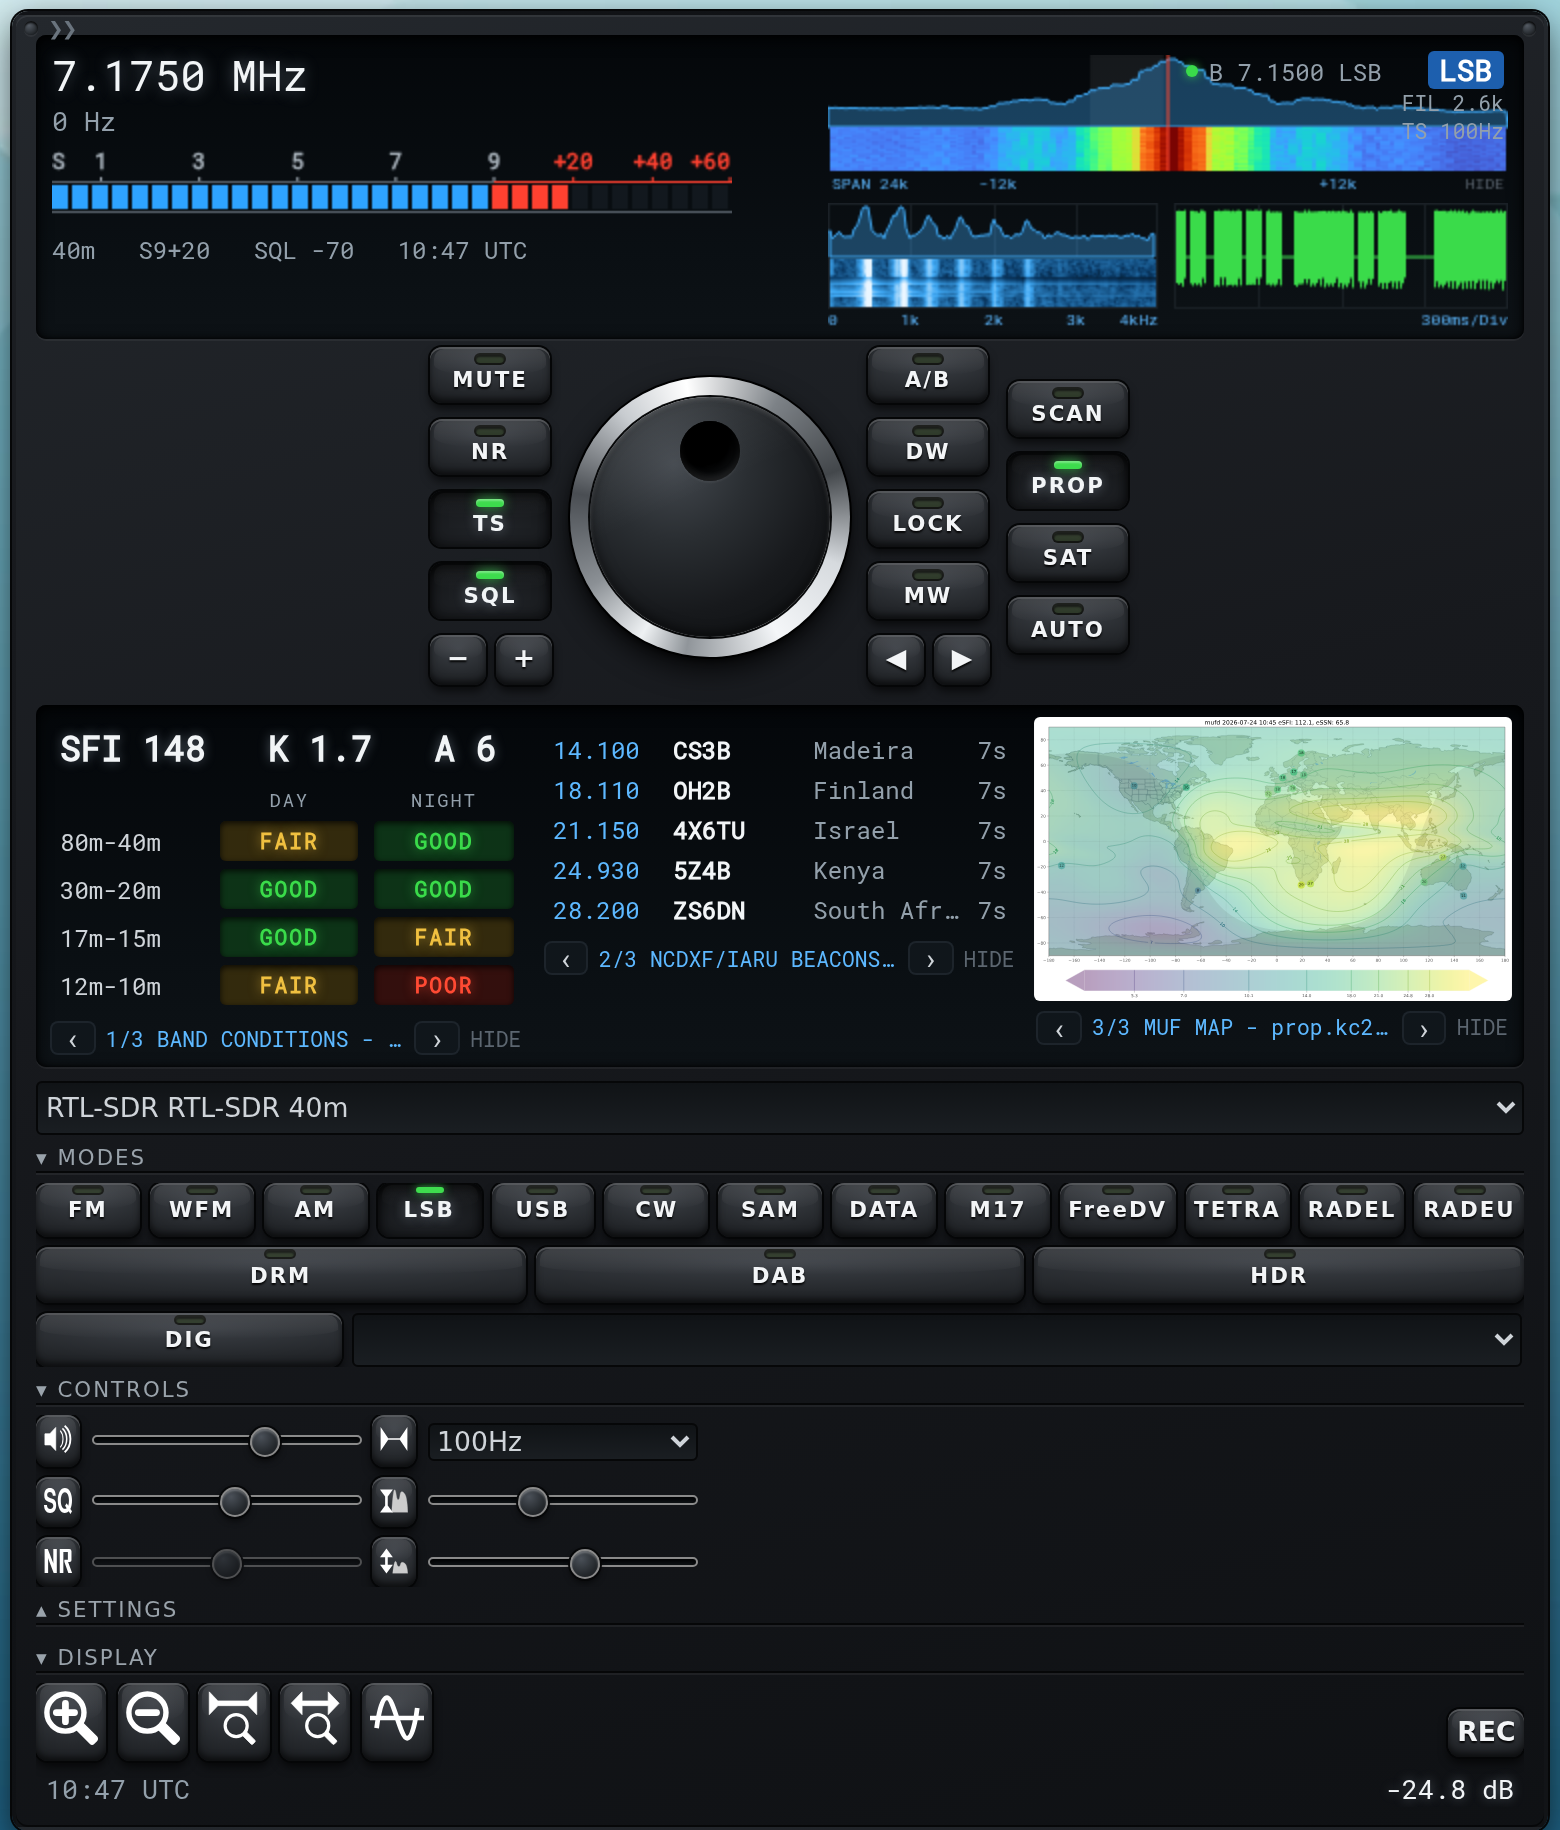
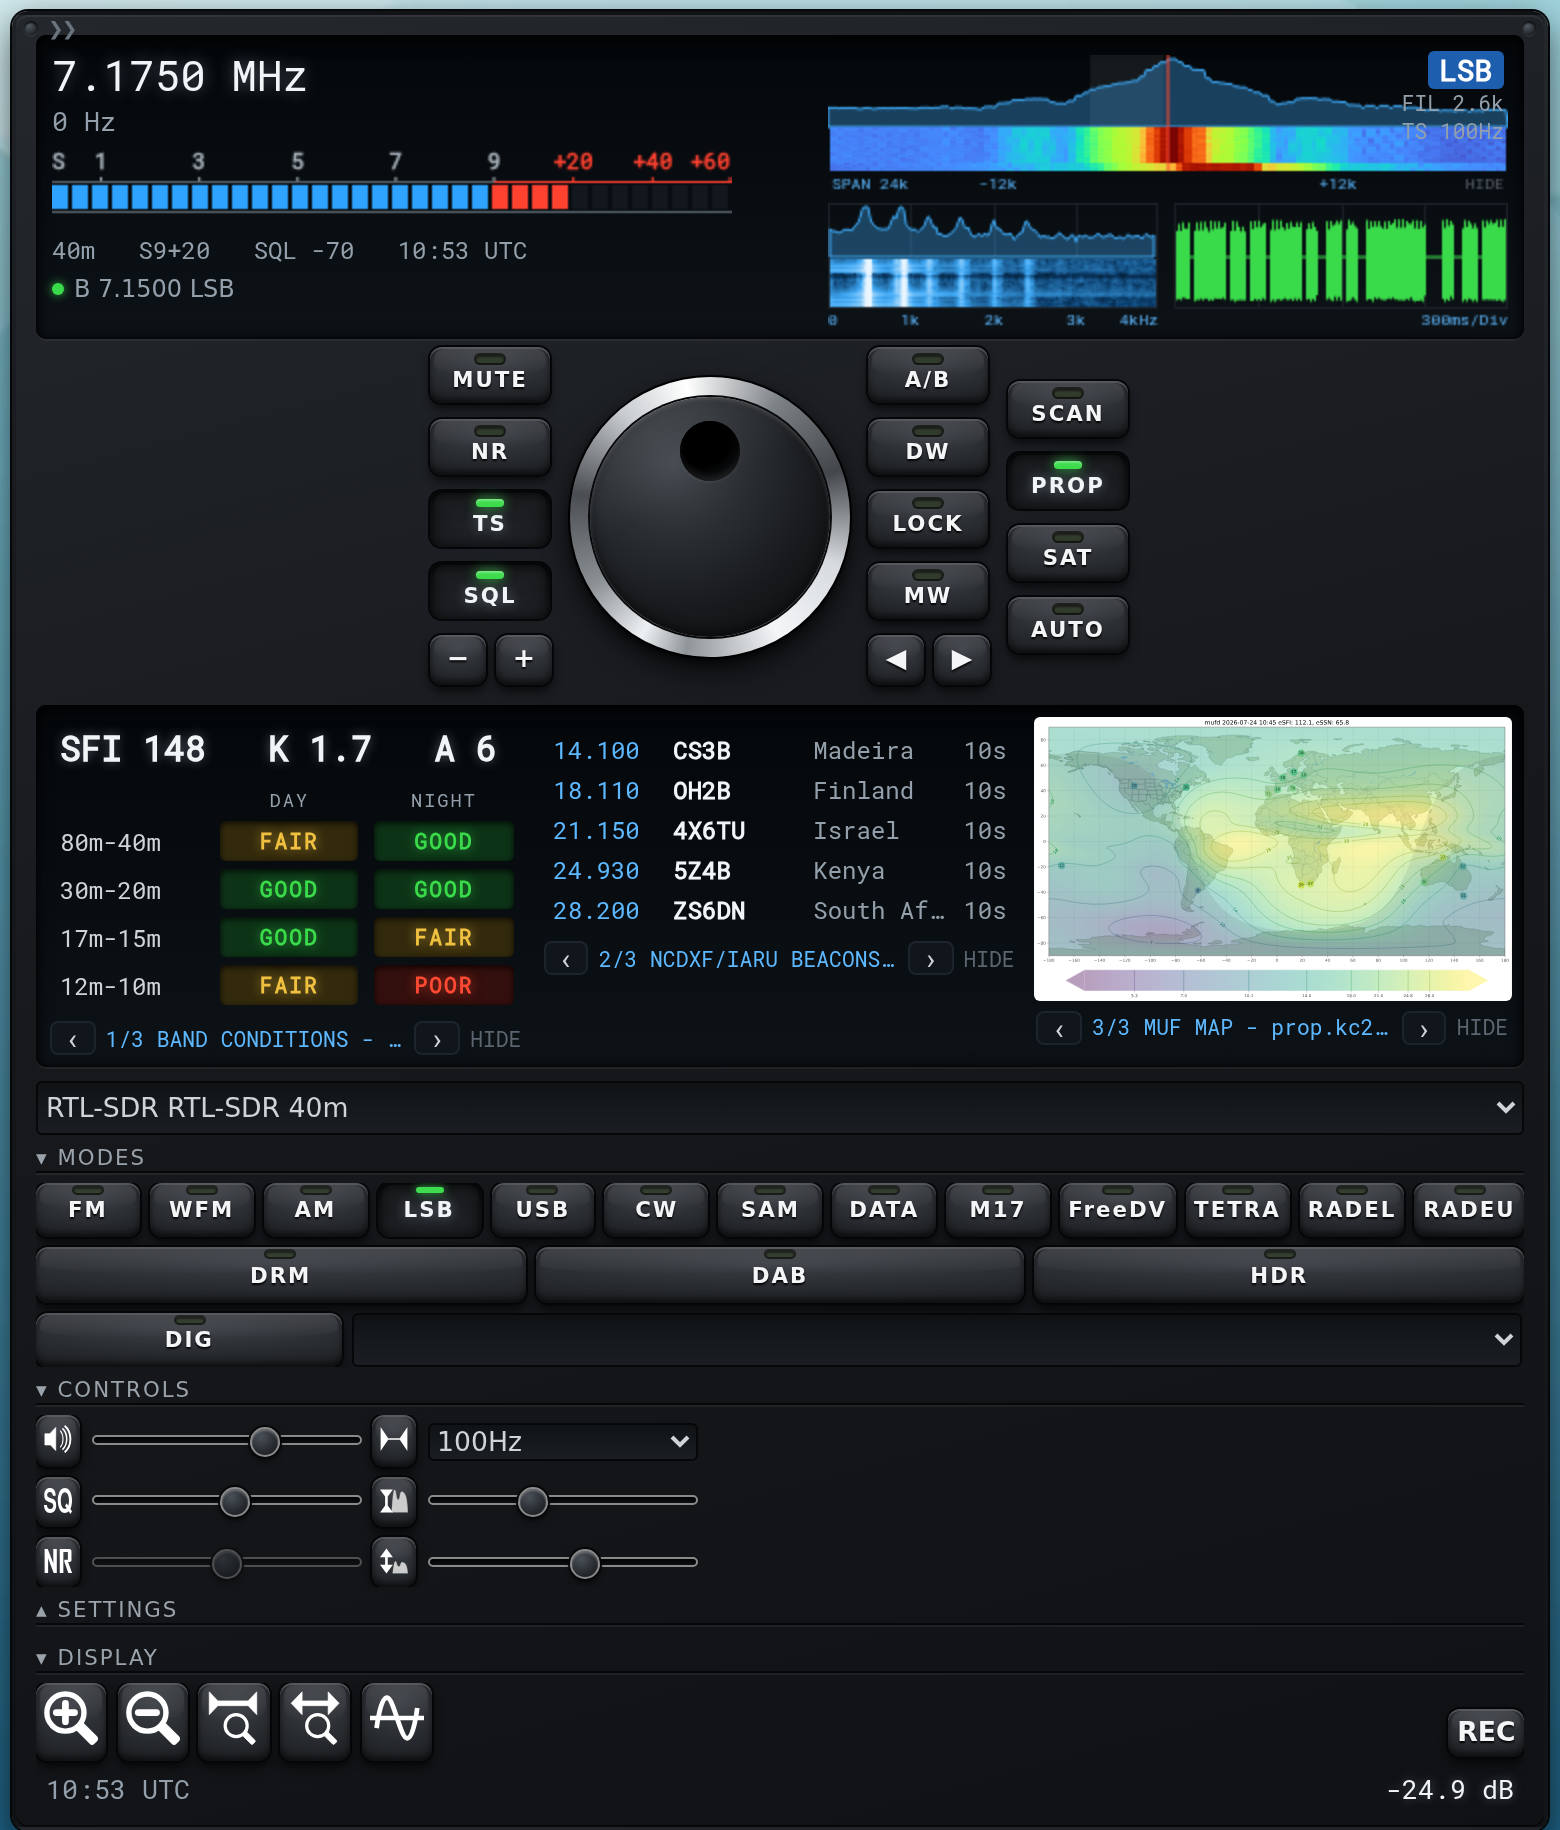
0.9.4: fix wide-layout B readout overlapping the scope; move it under the S-meter

diff --git a/receiver/rig_skin/rig_skin.js b/receiver/rig_skin/rig_skin.js
@@ -7,7 +7,7 @@
  * knob step follows the tuning step selector.
  */
 
-Plugins.rig_skin._version = '0.9.3';
+Plugins.rig_skin._version = '0.9.4';
 
 // where this script was loaded from, for fetching companion files
 // (works for both local and remote plugin installs)
@@ -981,6 +981,14 @@ Plugins.rig_skin.createVfoKeys = function () {
     var $bFreq = $('<span>').addClass('owrx-rig-vfob-freq');
     $vfoLine.append($bDot).append($bFreq);
     $('#owrx-rig-info').append($vfoLine);
+    // exposed so the wide-layout toggle can move it below the S-meter
+    // (in narrow it lives by the mode badge; in wide it would otherwise
+    // overlap the right-hand scope column)
+    Plugins.rig_skin._vfoLine = $vfoLine;
+    // place it correctly for the current layout now that it exists
+    if (Plugins.rig_skin._applyWide) {
+        Plugins.rig_skin._applyWide($('#openwebrx-panel-receiver').hasClass('rig-wide'));
+    }
 
     function saveB() {
         if (typeof LS !== 'undefined') {
@@ -1641,6 +1649,15 @@ Plugins.rig_skin.createExpandToggle = function () {
         $panel.toggleClass('rig-wide', wide);
         // the panel grows to the left, so left chevrons mean expand
         $btn.text(wide ? '❯❯' : '❮❮');
+        // the B (other VFO) readout hangs to the left of the mode badge
+        // in narrow mode, which would land on the right-hand scopes when
+        // wide; move it under the meter (into .frequencies) for wide,
+        // back beside the mode badge for narrow
+        var $vfo = Plugins.rig_skin._vfoLine;
+        if ($vfo && $vfo.length) {
+            if (wide) $vfo.appendTo($panel.find('.frequencies'));
+            else $vfo.appendTo($panel.find('#owrx-rig-info'));
+        }
         if (typeof LS !== 'undefined') LS.save('rig_wide', wide);
     }
 
@@ -1648,6 +1665,9 @@ Plugins.rig_skin.createExpandToggle = function () {
         apply(!$panel.hasClass('rig-wide'));
     });
     $panel.append($btn);
+
+    // exposed so createVfoKeys can re-apply once the B readout exists
+    Plugins.rig_skin._applyWide = apply;
 
     apply((typeof LS !== 'undefined' && LS.has('rig_wide'))
         ? LS.loadBool('rig_wide') : false);

diff --git a/receiver/rig_skin/rig_skin.css b/receiver/rig_skin/rig_skin.css
@@ -257,6 +257,15 @@ body.theme-rig .rig-wide #owrx-rig-extra {
     white-space: pre;
 }
 
+/* in wide mode the B readout moves under the S-meter (into .frequencies)
+   so it no longer hangs left over the scope column; flow it normally,
+   left aligned, instead of the narrow-mode absolute right:100% anchor */
+body.theme-rig .rig-wide .frequencies > .owrx-rig-info-vfob {
+    position: static;
+    margin: 6px 0 0 0;
+    justify-content: flex-start;
+}
+
 /* expand chevron, top left of the panel; large screens only */
 #owrx-rig-expand {
     display: none;

diff --git a/CHANGELOG.md b/CHANGELOG.md
@@ -1,5 +1,10 @@
 # Changelog
 
+## 0.9.4 (2026-07-24)
+
+- Wide layout fix: the second VFO (B) readout sat over the audio scope.
+  It now sits under the S-meter, in the empty left-column space.
+
 ## 0.9.3 (2026-07-24)
 
 - VFO A/B and Dual Watch. A/B (middle key column) swaps between two

diff --git a/README.md b/README.md
@@ -159,7 +159,7 @@ From the folder that holds your `docker-compose.yml` (swap in the current
 version number):
 
 ```sh
-V=0.9.3
+V=0.9.4
 curl -fL -o rig-skin.zip \
   "https://github.com/aganet/openwebrxplus-rig-skin/releases/download/v${V}/openwebrxplus-rig-skin-${V}.zip"
 unzip -o rig-skin.zip 'rig_skin/*' -d plugins/receiver/
@@ -274,7 +274,7 @@ console and type:
 Plugins.rig_skin._version
 ```
 
-It prints the version string, e.g. `"0.9.3"`. If it shows an older
+It prints the version string, e.g. `"0.9.4"`. If it shows an older
 version than you installed, the browser is serving a cached copy;
 hard-refresh with Ctrl+Shift+R.
 